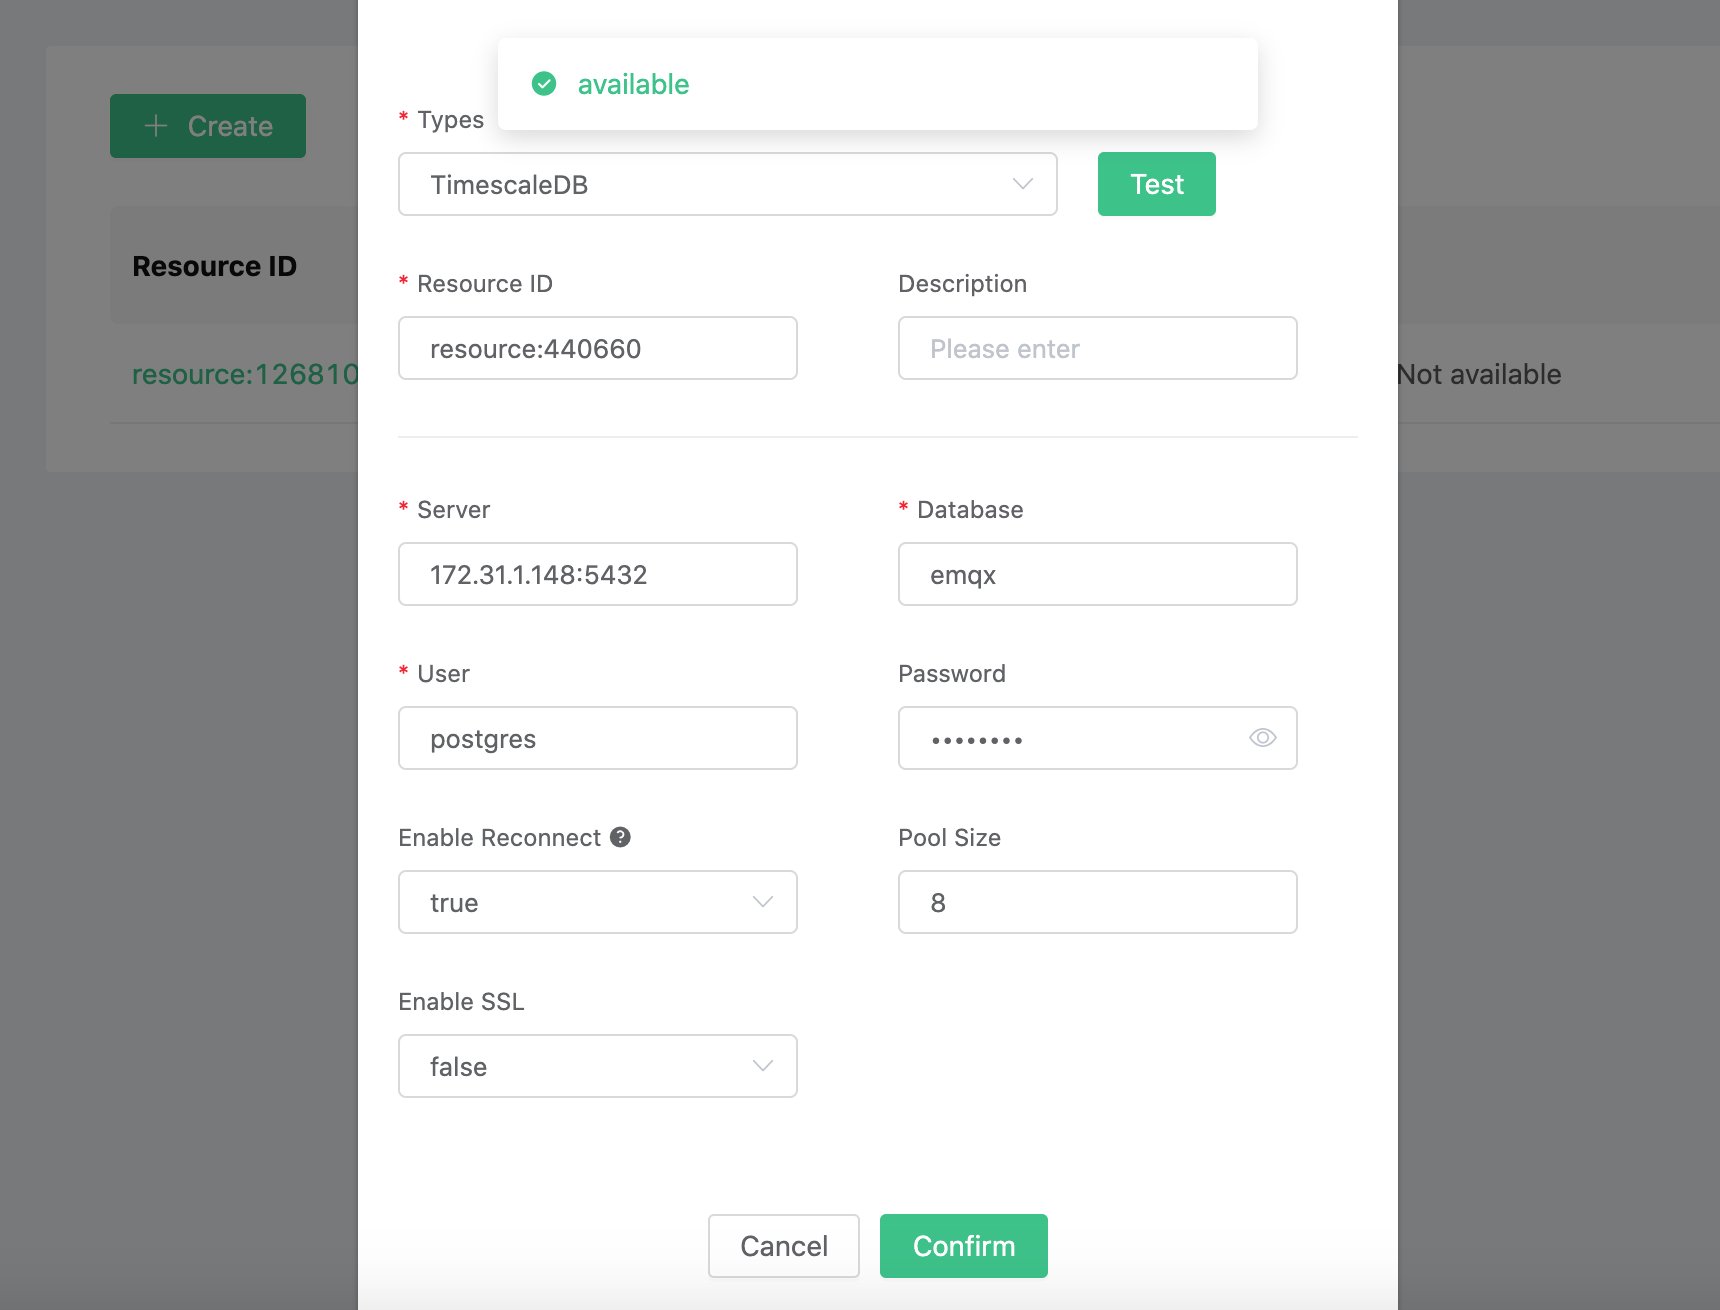
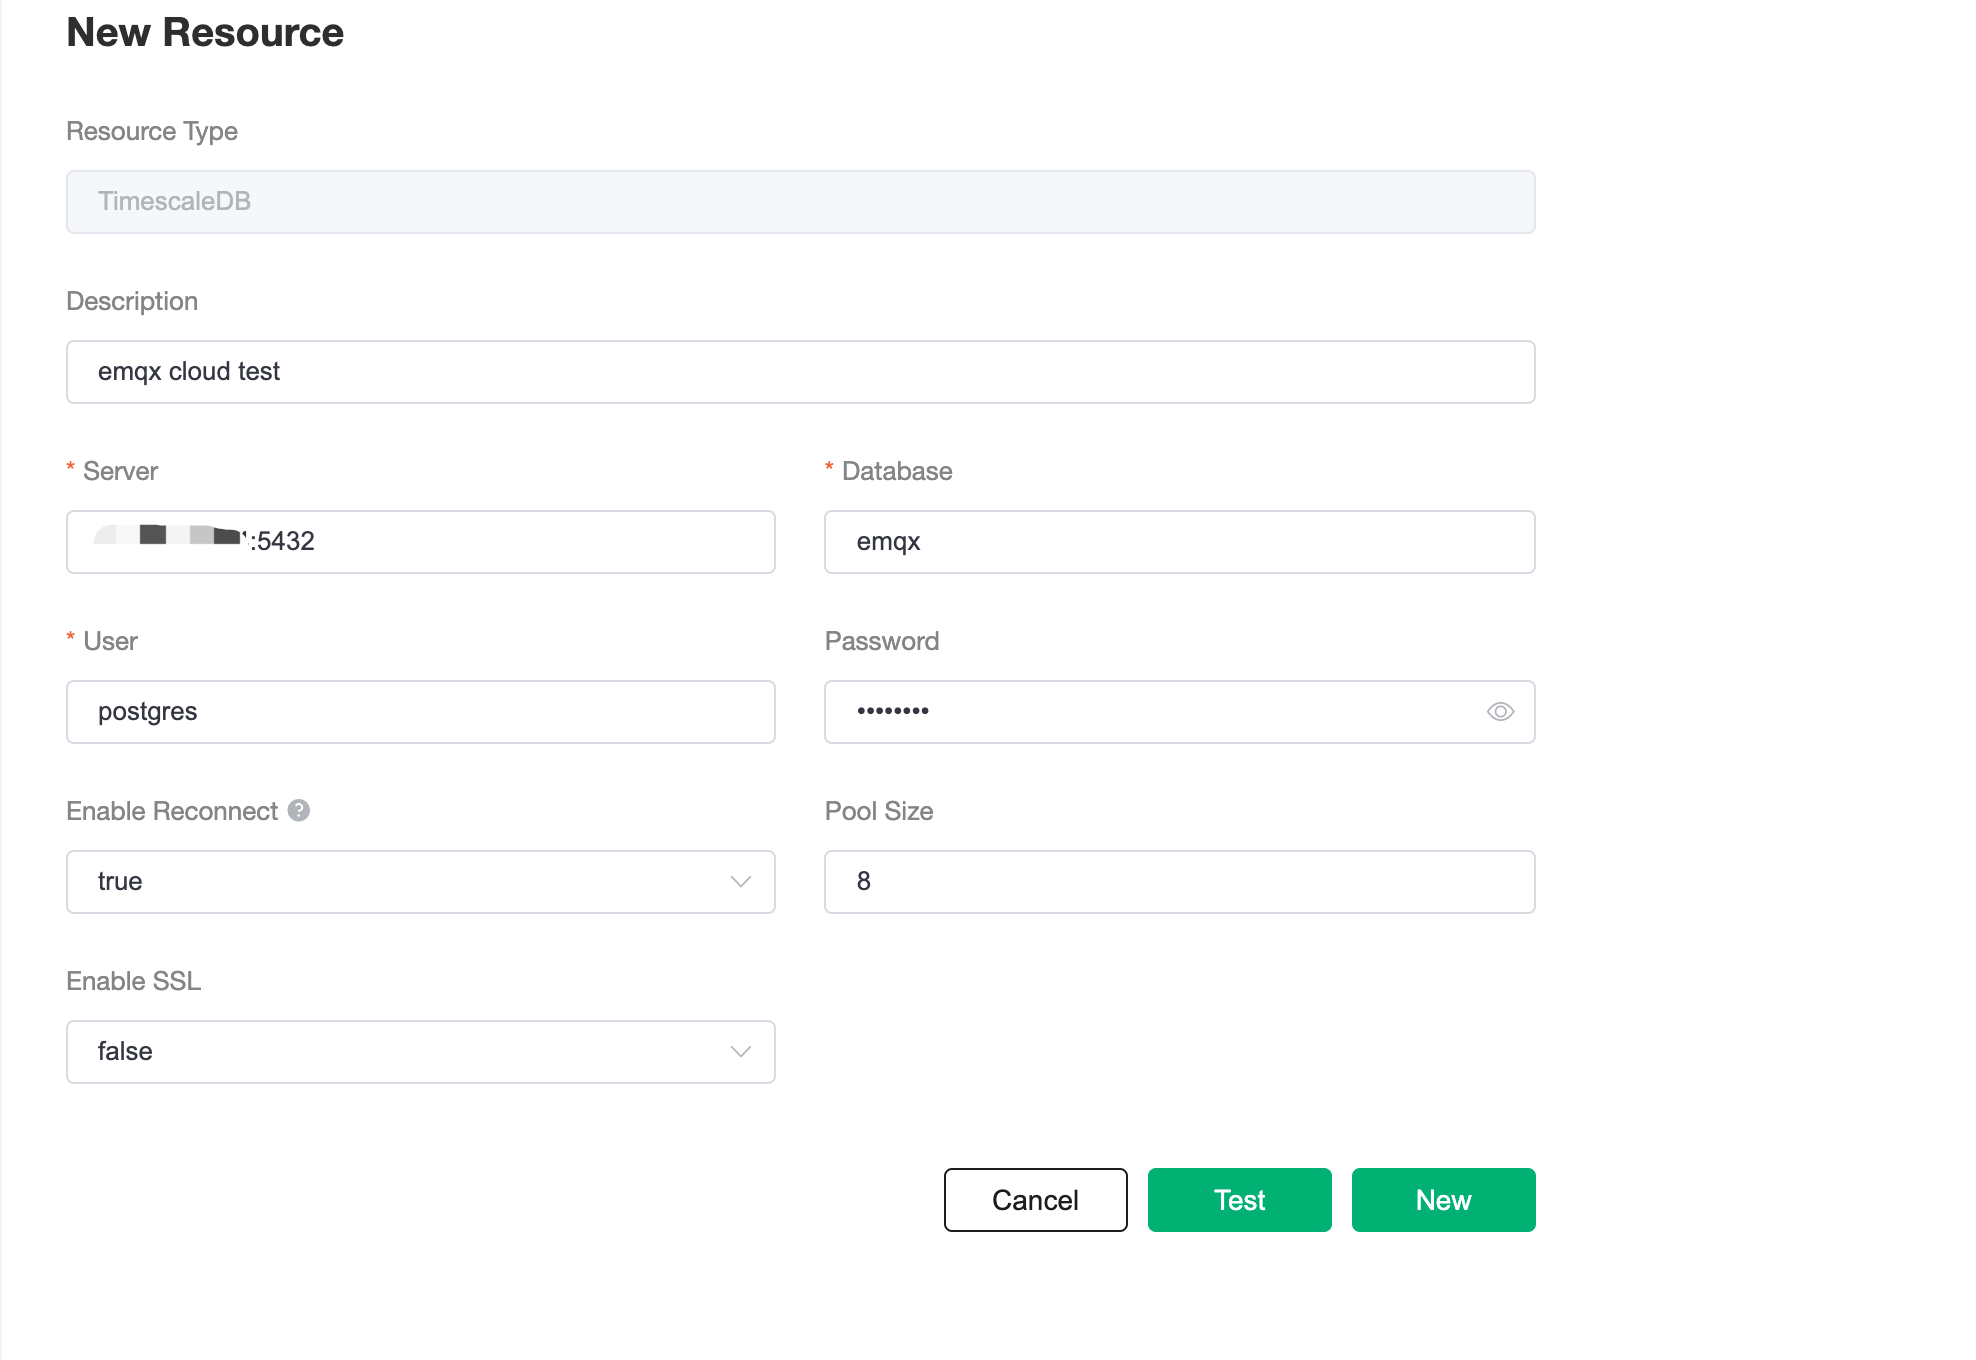
refactor(rule_engine): refactor doc of save data to timescaledb

diff --git a/en_US/rule_engine/rule_engine_save_timescaledb.md b/en_US/rule_engine/rule_engine_save_timescaledb.md
@@ -1,11 +1,11 @@
-# Save device data to Timescaledb using the Rule Engine
+# Save device data to Timescaledb using the Data Integrations
 
 In this article, we will simulate temperature and humidity data and report these data to EMQX Cloud via the MQTT protocol and then use the EMQX Cloud rules engine to dump the data into TimescaleDB.
 
 Before you start, you need to complete the following operations:
+
 * Deployments have already been created on EMQX Cloud (EMQX Cluster).
 * For professional deployment users: Please complete [Peering Connection Creation](../deployments/vpc_peering.md) first, all IPs mentioned below refer to the intranet IP of the resource.
-
 
 ## TimescaleDB Configuration
 
@@ -14,14 +14,14 @@ Before you start, you need to complete the following operations:
    docker run -d --name timescaledb -p 5432:5432 -e POSTGRES_PASSWORD=password timescale/timescaledb:1.7.4-pg12
    ```
 
-2. New database
+2. Create database
    ```bash
    docker exec -it timescaledb psql -U postgres
    CREATE database emqx;
    \c emqx
    ```
 
-3. New temperature and humidity table
+3. Create table
 
    Use the following SQL statement to create `temp_hum` table. This table will be used to save the temperature and humidity data reported by devices.
    ```sql
@@ -37,56 +37,67 @@ Before you start, you need to complete the following operations:
 
 4. Insert test data and view it
    ```sql
-   INSERT INTO temp_hum(up_timestamp, client_id, temp, hum) values (to_timestamp(1603963414), 'temp_hum-001', 19.1, 55);
+   INSERT INTO temp_hum(up_timestamp, client_id, temp, hum) VALUES (to_timestamp(1603963414), 'temp_hum-001', 19.1, 55);
 
-   select * from temp_hum;
+   SELECT * FROM temp_hum;
    ```
+
+## Data Integrations Configuration
+
+Go to Deployment Details and click on `Data Integrations` on the left menu bar.
+
+1. Create TimescaleDB Resource
    
-## EMQX Cloud rules engine configuration
+   Click on `TimescaleDB` under the Data Persistence.
 
-Go to Deployment Details and click on EMQX Dashbaord to go to Dashbaord.
+   ![timescaledb](./_assets/timescaledb.png)
+ 
+   Fill in the timescaledb database information you have just created and click `Test`. If there is an error, you should check if the database configuration is correct. Then click on `New` to create TimescaleDB resource.
 
-1. New Resource
-
-   Click on Rules on the left menu bar → Resources, click on New Resource and drop down to select the TimescaleDB resource type. Fill in the timescaledb database information you have just created and click Test. If you get an error, instantly check that the database configuration is correct.
    ![create resource](./_assets/timescaledb_create_resource.png)
-   
-2. Rule Testing
-   Click on Rules on the left menu bar → Rules, click on Create and enter the following rule to match the SQL statement.  In the following rule we read the time `up_timestamp` when the message is reported, the client ID, the message body (Payload) from the `temp_hum/emqx` topic and the temperature and humidity from the message body respectively.
-   
+
+2. Create Rule
+
+   Choose the TimescaleDB resource under Configured Resources, click on `New Rule` and enter the following rule to match the SQL statement. In the following rule we read the time `up_timestamp` when the message is reported, the client ID, the message body (Payload) from the `temp_hum/emqx` topic and the temperature and humidity from the message body respectively.
+
    ```sql
    SELECT 
-   
-   timestamp div 1000 as up_timestamp, clientid as client_id, payload.temp as temp, payload.hum as hum
-   
+   timestamp div 1000 AS up_timestamp, clientid AS client_id, payload.temp AS temp, payload.hum AS hum
    FROM
-   
    "temp_hum/emqx"
    ```
-   ![rule_engine](./_assets/sql_test.png)
+   ![rule_engine](./_assets/timescaledb_new_rule.png)
 
-3. Add a response action
+3. Create Action
 
-   Click on Add Action in the bottom left corner, drop down and select → Data Persistence → Save Data to Timescale, select the resource created in the first step and enter the following data to insert into the SQL template.
+   Click on the `Next` button in the bottom to enter action view. Select the resource created in the first step and enter the following data to insert into the SQL template.
 
    ```sql
-   insert into temp_hum(up_timestamp, client_id, temp, hum) values (to_timestamp(${up_timestamp}), ${client_id}, ${temp}, ${hum})
+   INSERT INTO temp_hum(up_timestamp, client_id, temp, hum) VALUES (to_timestamp(${up_timestamp}), ${client_id}, ${temp}, ${hum})
    ```
-   ![rule_engine](./_assets/timescaledb_action.png)
+   ![rule_engine](./_assets/timescaledb_new_action.png)
+   Click on `Confirm` to create action.
 
-4. Click on New Rule and return to the list of rules
-   ![rule_engine](./_assets/view_rule_engine_timescaledb.png)
+4. View Resource Detail
+
+   Click on the resource to see the detail.
+
+   ![timescale_resource_detail](./_assets/timescaledb_resource_detail.png)
 
 
-5. View rules monitoring
-   ![monitor](./_assets/view_monitor_timescaledb.png)
+5. Check Rule Monitoring
+
+   Click the monitor icon of rule to see the metrics
+
+   ![view monitor](./_assets/timescaledb_monitor.png)
 
 ## Test
+
 1. Use [MQTT X](https://mqttx.app/) to simulate temperature and humidity data reporting
 
    You need to replace broker.emqx.io with the created deployment [connection address](../deployments/view_deployment.md), and add [client authentication information](../deployments/auth.md) to the EMQX Dashboard.
    ![MQTTX](./_assets/mqttx_publish.png)
-   
+
 2. View data dump results
 
    ```sql
